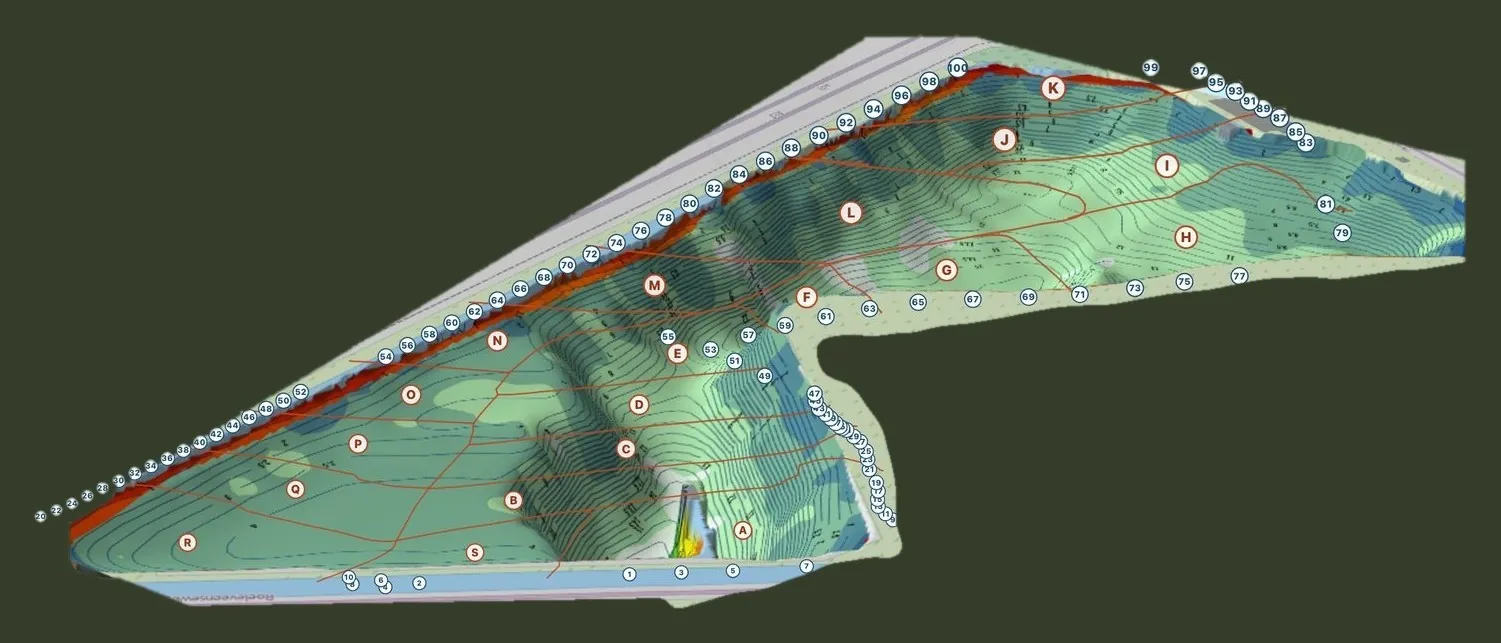
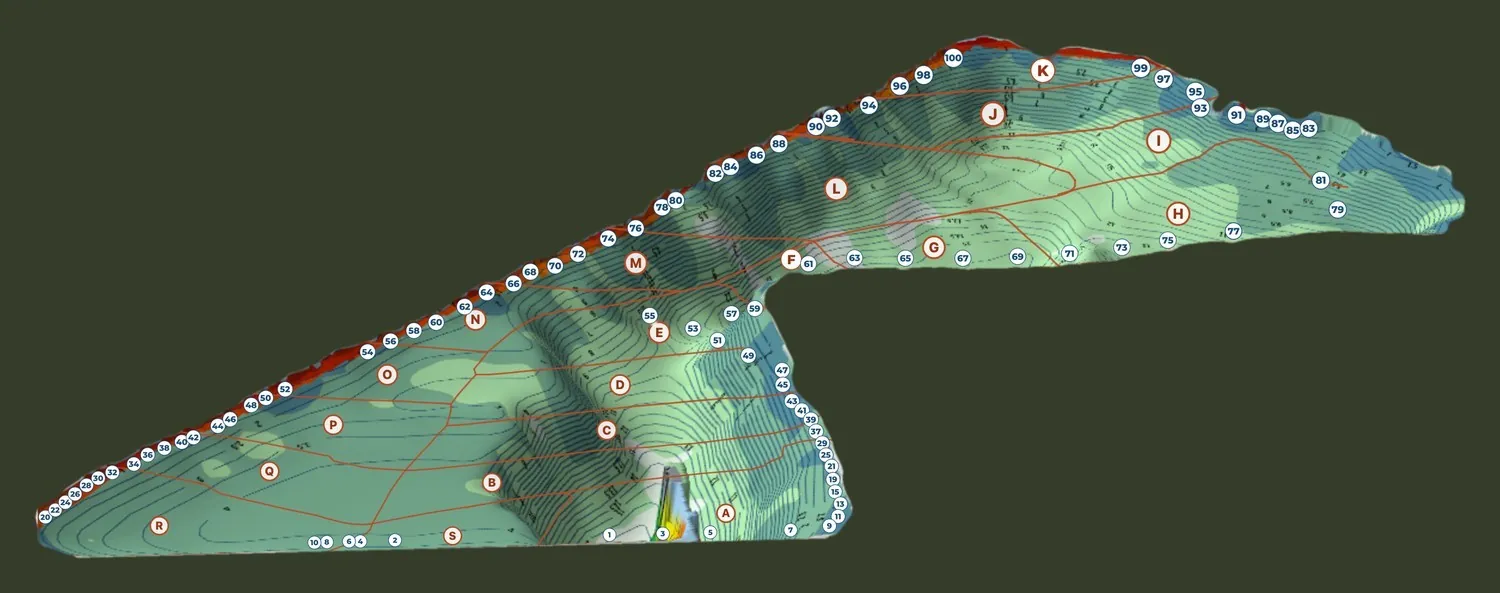
3D-kaart strak langs de waterrand, steknummers aan de binnenkant
De kaart volgt nu overal de rand van het water: de oeverstrook, de vaart en de
weg zijn weg en de zuidrand is recht. De steknummers staan net binnen de rand,
op volgorde langs de oever. Zes nummers aan de oostoever (17, 23, 27, 31, 33
en 35) zijn vervallen omdat ze daar in dit perspectief op elkaar liggen.
Het gereedschap staat buiten de repo, naast de bronrender.

Changed region(s): [[0.0, 0.0304, 0.9813, 0.941]]

diff --git a/docs/index.html b/docs/index.html
@@ -235,7 +235,7 @@
         </div>
       </div>
       <figure class="kaartplaat" data-toon>
-        <img src="schermen/kaart3d-stekken.webp" alt="De 3D-dieptescan van de Plas van der Ende met de stekken en zones uit de app eroverheen" width="1501" height="643" loading="lazy">
+        <img src="schermen/kaart3d-stekken.webp" alt="De 3D-dieptescan van de Plas van der Ende met de stekken en zones uit de app eroverheen" width="1500" height="593" loading="lazy">
         <figcaption class="klein">Waar het mee begint: de dieptescan
         van jullie water, hier in 3D met de stekken en zones uit de app eroverheen. Zo'n scan,
         een oude papieren kaart of een tekening; wij maken er de interactieve kaart van.</figcaption>

diff --git a/CLAUDE.md b/CLAUDE.md
@@ -1377,16 +1377,17 @@ elke vangst") en de kopjes "Meedoen" en "Contact" in de voet.
   of historie): `scherm-home`, `scherm-vangsten`, `scherm-seizoen`, `scherm-afsluiting`,
   `uitslag-carpclassic-2026`. `vangst-klein.jpg` en `avondlicht-800.jpg` worden door
   gereedschap gebruikt (rooktest, advertentie, huisstijloverzicht): laten staan.
-- **`kaart3d-stekken`: alleen nog het water (19 nov, op aanwijzing van Patrick).** Hij tekende
-  in een schermafbeelding een zwarte lijn om het water; het weiland, de tweede plas en de
-  bebouwing eronder zijn weggesneden. Alle steknummers staan er nog op, ook de losse nummers
-  20 tot 28 en 99 die buiten de plaat zweven. Langs de weg onder de vaart is de snede recht
-  getrokken (de handlijn slingerde daar), de rest volgt zijn lijn, gladgestreken. Nieuw
-  formaat 1501 x 643 (was 1465 x 782); `width` en `height` in `index.html` zijn meegegaan.
-  Gereedschap en de lijn zelf: `tools/kaart3d/`. De ongesneden plaat staat in git
-  (`git show 7ce5077:docs/schermen/kaart3d-stekken.jpg`). **Niet aangepast:**
-  `docs/nphv/kaart-3d.jpg`, de 3D-kaart die de NPHV-app zelf opent (oorspronkelijke render,
-  met land en dieptelegenda).
+- **`kaart3d-stekken`: alleen het water, strak langs de waterrand (19 en 20 nov, op aanwijzing
+  van Patrick).** Eerst langs een lijn die hij in een schermafbeelding tekende; daarna wilde hij
+  hem "helemaal langs de groene kant" en de steknummers "aan de binnenkant of weg". De kaart
+  wordt nu opnieuw opgebouwd uit de bronrender: water herkend op kleur, de zuidrand recht
+  getrokken, de oude nummers uit het beeld gehaald en opnieuw getekend net binnen de rand, op
+  volgorde langs de oever. Van de 96 steknummers staan er 90 op; 17, 23, 27, 31, 33 en 35
+  (oostoever) zijn vervallen omdat de stekken daar in dit perspectief op elkaar liggen. Formaat
+  1500 x 593. **Gereedschap en uitleg: `Viswedstrijdapp/kaart-proef-tools/alleen-water/`** (buiten
+  deze repo, naast `render3d.py` en de bronrender). De eerste versie van 19 nov en de oude
+  plaat met land staan in git (`4193daa` en `7ce5077`). **Niet aangepast:**
+  `docs/nphv/kaart-3d.jpg`, de 3D-kaart die de NPHV-app zelf opent (met land en dieptelegenda).
 - **Twee oude fouten die hierbij aan het licht kwamen (Codex-review van de diff, nagemeten):**
   (1) de topbar bleef bij scrollen NIET bovenaan staan: `html, body { overflow-x: hidden }`
   maakt van `body` een scrollvak en dan plakt `position: sticky` niet. Nu
